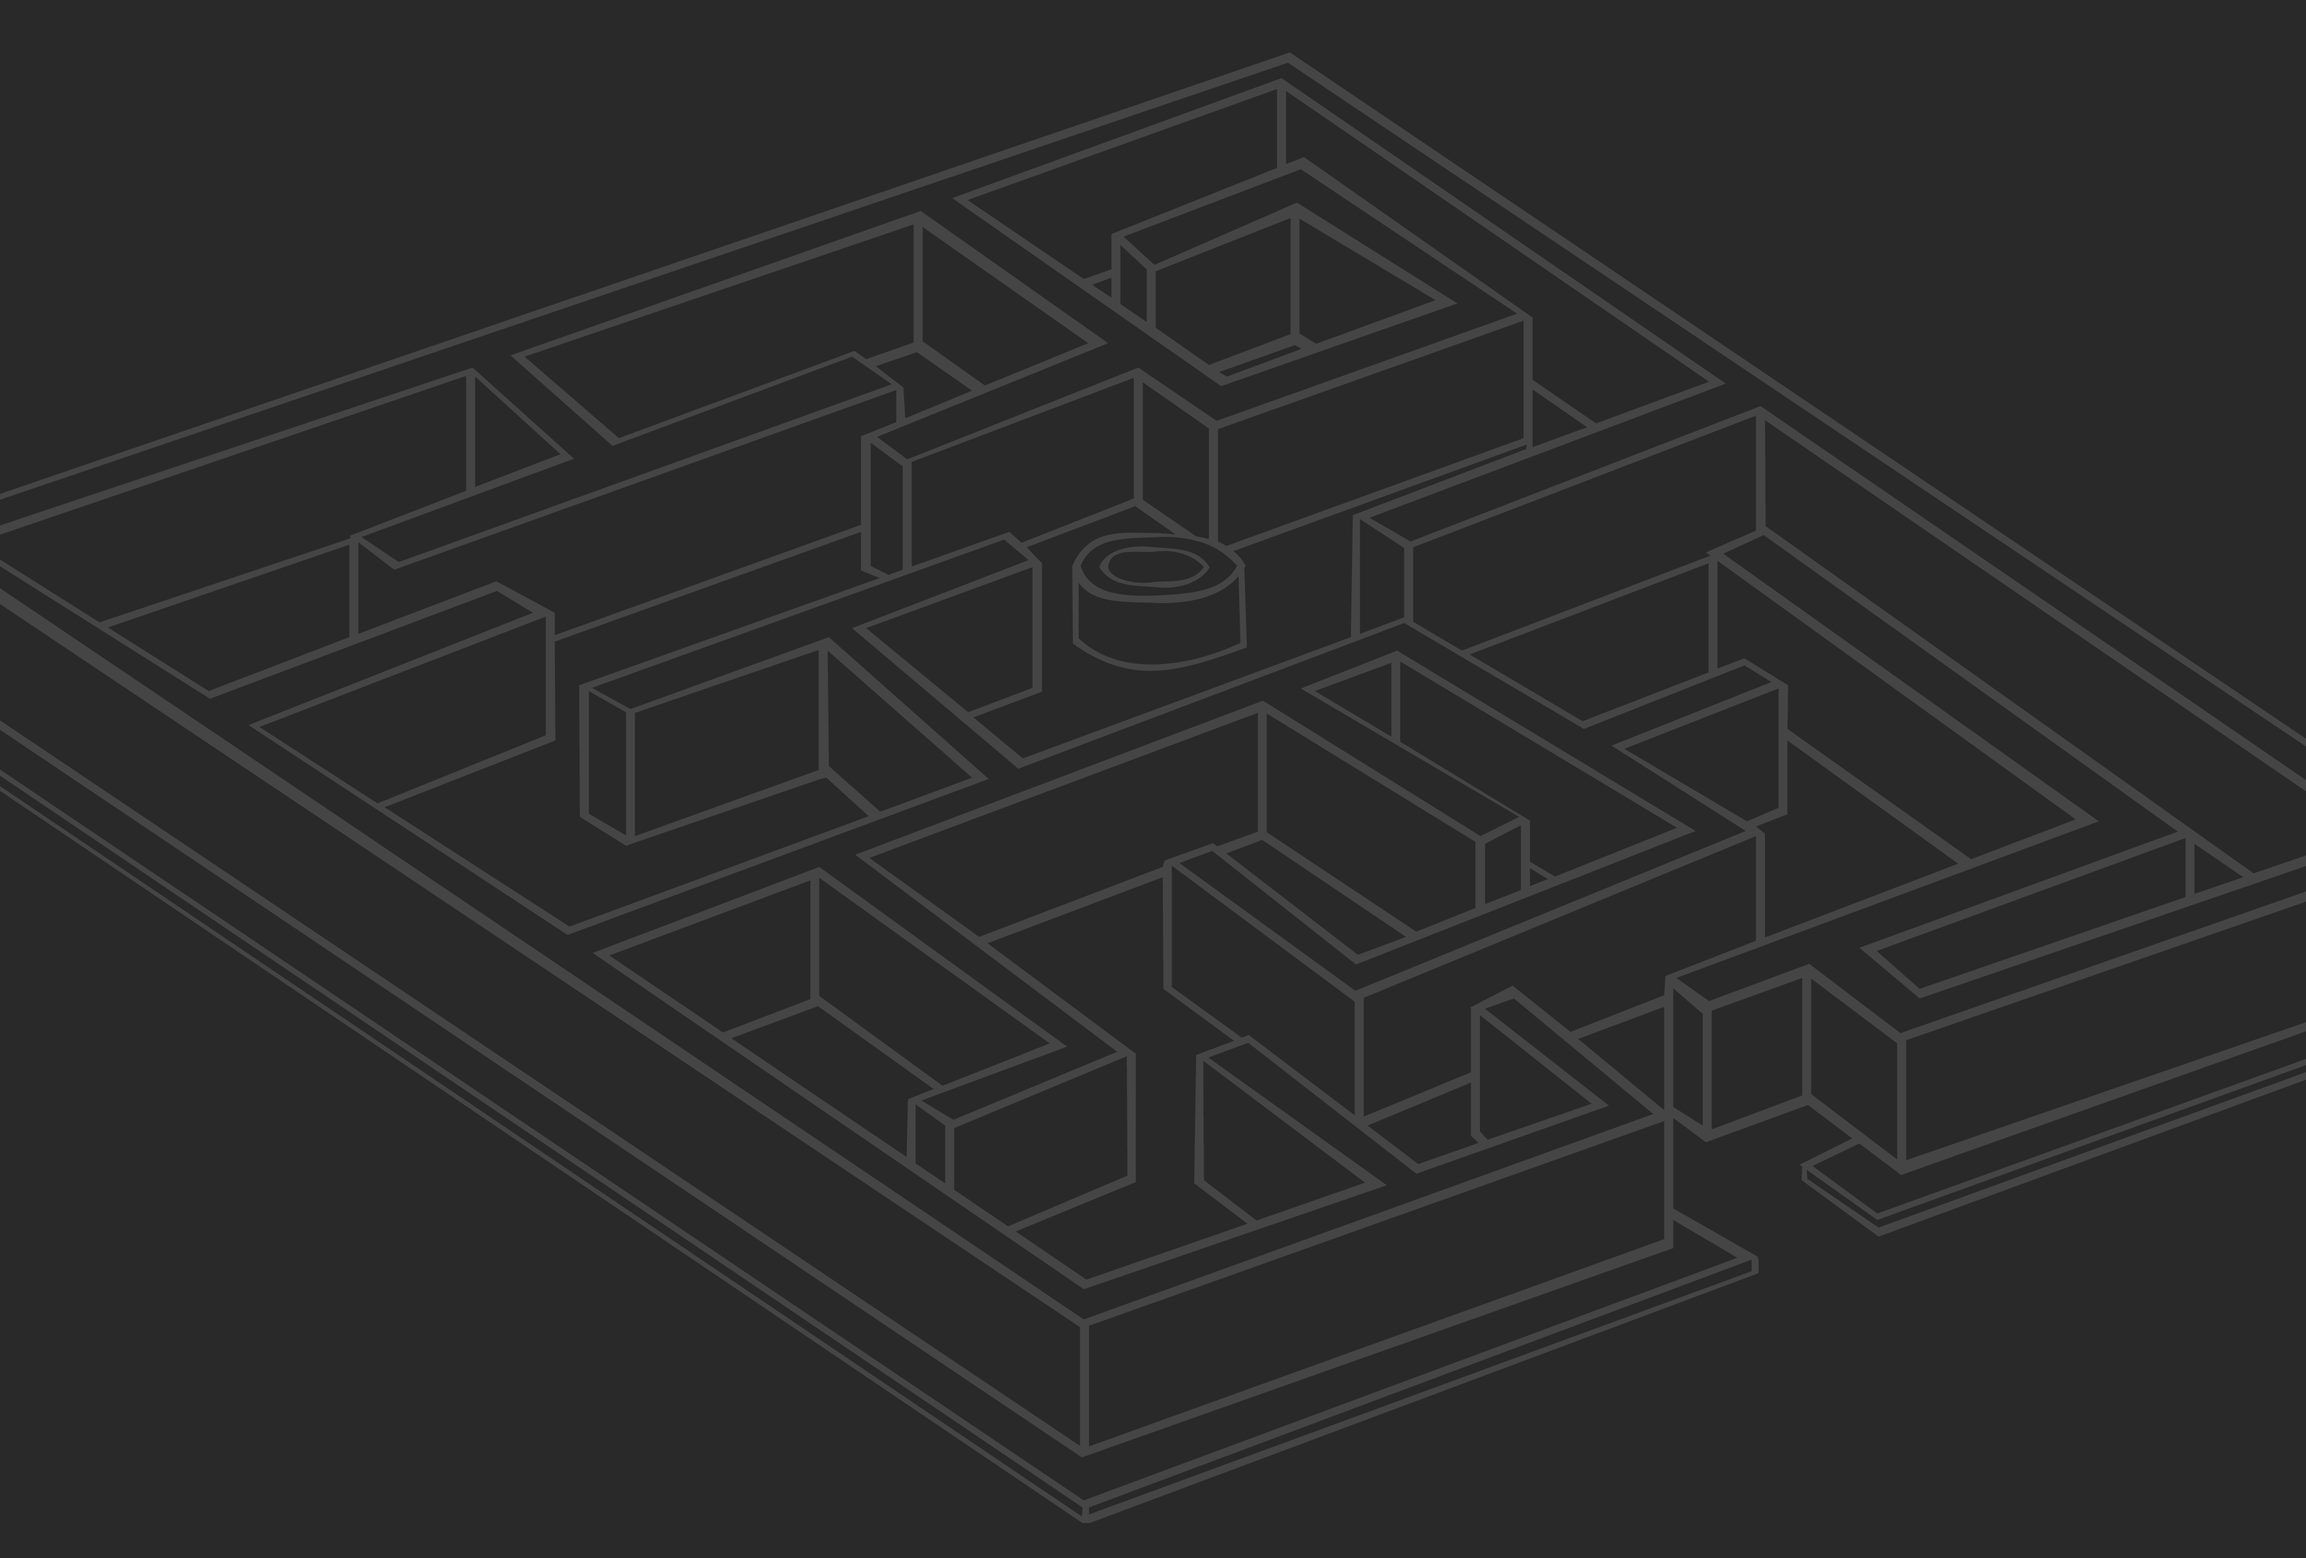
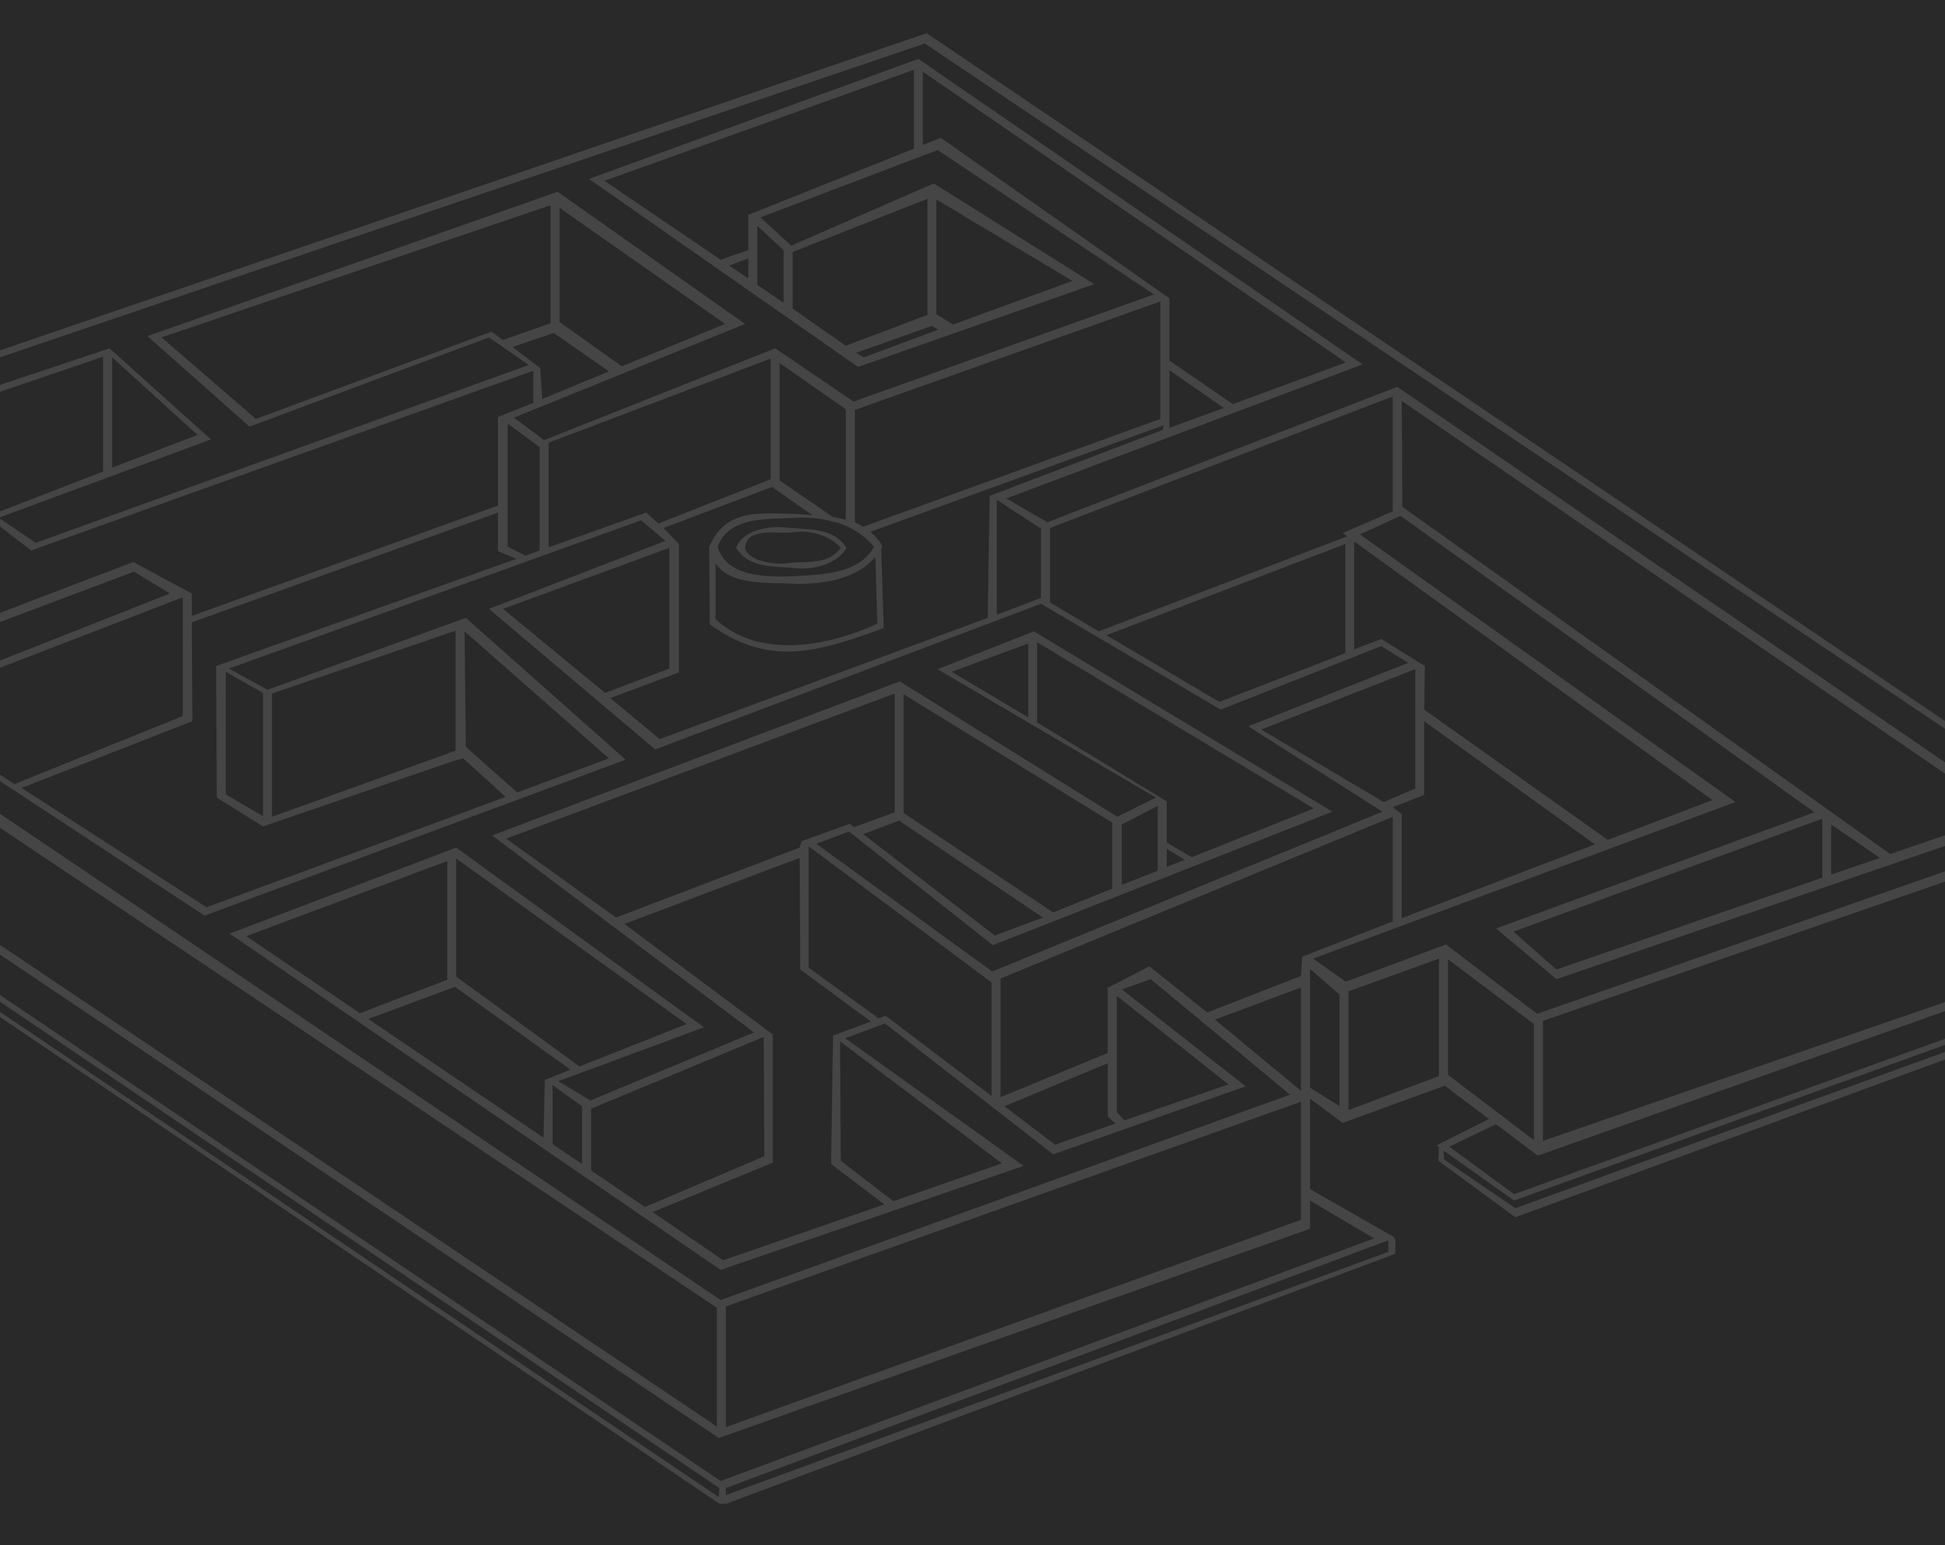
Add media queries in leaderboard.css

Changed region(s): [[0.0, 0.0, 1.0, 0.9684]]

diff --git a/public/assets/css/leaderboard.css b/public/assets/css/leaderboard.css
@@ -29,3 +29,14 @@ th, td {
     text-align: center;
 }
 
+@media screen and (min-width: 680px) and (max-width: 1300px)  {
+    body {
+        background-image:url("../images/maze-ipad.png") ;
+    } 
+}
+
+@media screen and (min-width: 1300px) { 
+    body {
+        background-image:url("../images/maze-desktop.png");
+    } 
+}
